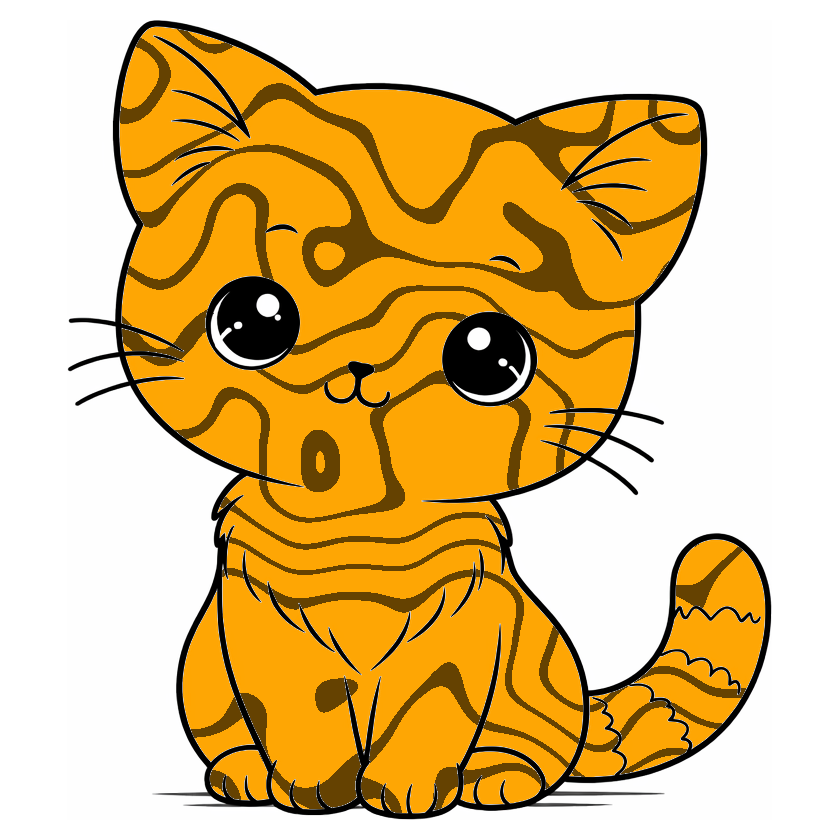
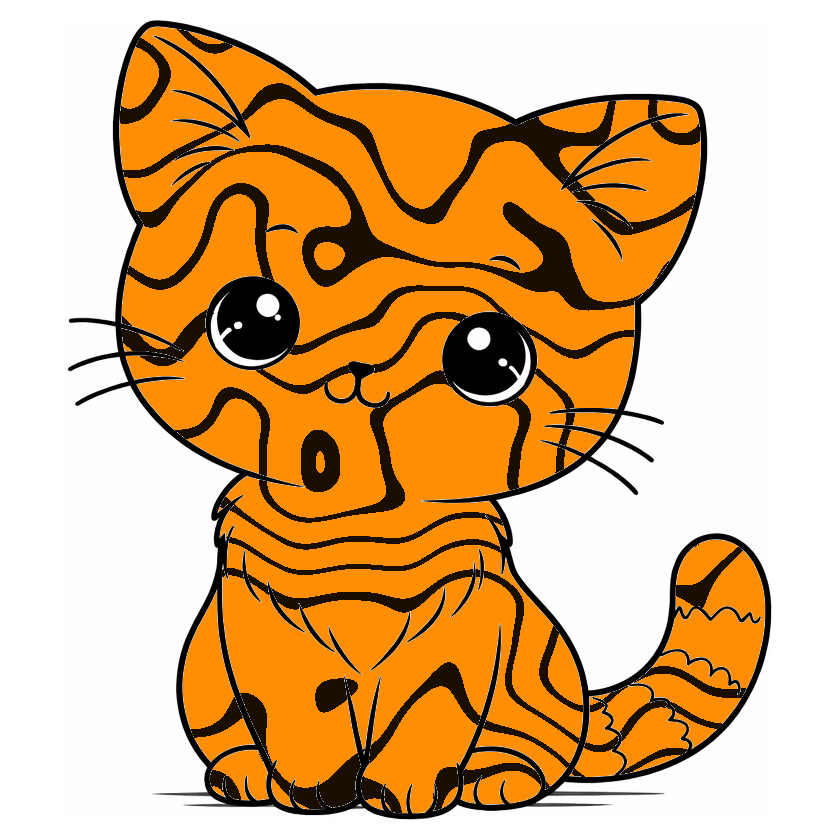
Deepen orange color and make fur markings black
- Orange shifted from (255,165,0) to (255,140,0) for warmer, less yellow tone
- Marking darkness increased from 0.6 to 0.9 for near-black markings
  instead of brown

https://claude.ai/code/session_01Y1zeYokrXQCEx2qjFvhX8B

diff --git a/excat.py b/excat.py
@@ -26,7 +26,7 @@ from PIL import Image
 
 # --- Color constants ---
 COLOR_RED = (255, 0, 0)       # 2 bpw
-COLOR_ORANGE = (255, 165, 0)  # 4 bpw
+COLOR_ORANGE = (255, 140, 0)  # 4 bpw
 COLOR_YELLOW = (255, 255, 0)  # 8 bpw
 
 BPW_LOW = 2.0
@@ -186,8 +186,8 @@ def generate_pattern(w: int, h: int, params: dict) -> list[list[float]]:
     cos_a = math.cos(params["angle"])
     sin_a = math.sin(params["angle"])
 
-    # Marking darkness: how dark the black markings are (0.6 = 60% darkened)
-    marking = 0.6
+    # Marking darkness: how dark the black markings are (0.9 = near black)
+    marking = 0.9
 
     if ptype == "tabby_mackerel":
         # Wavy stripes: sine wave with gentle noise displacement
